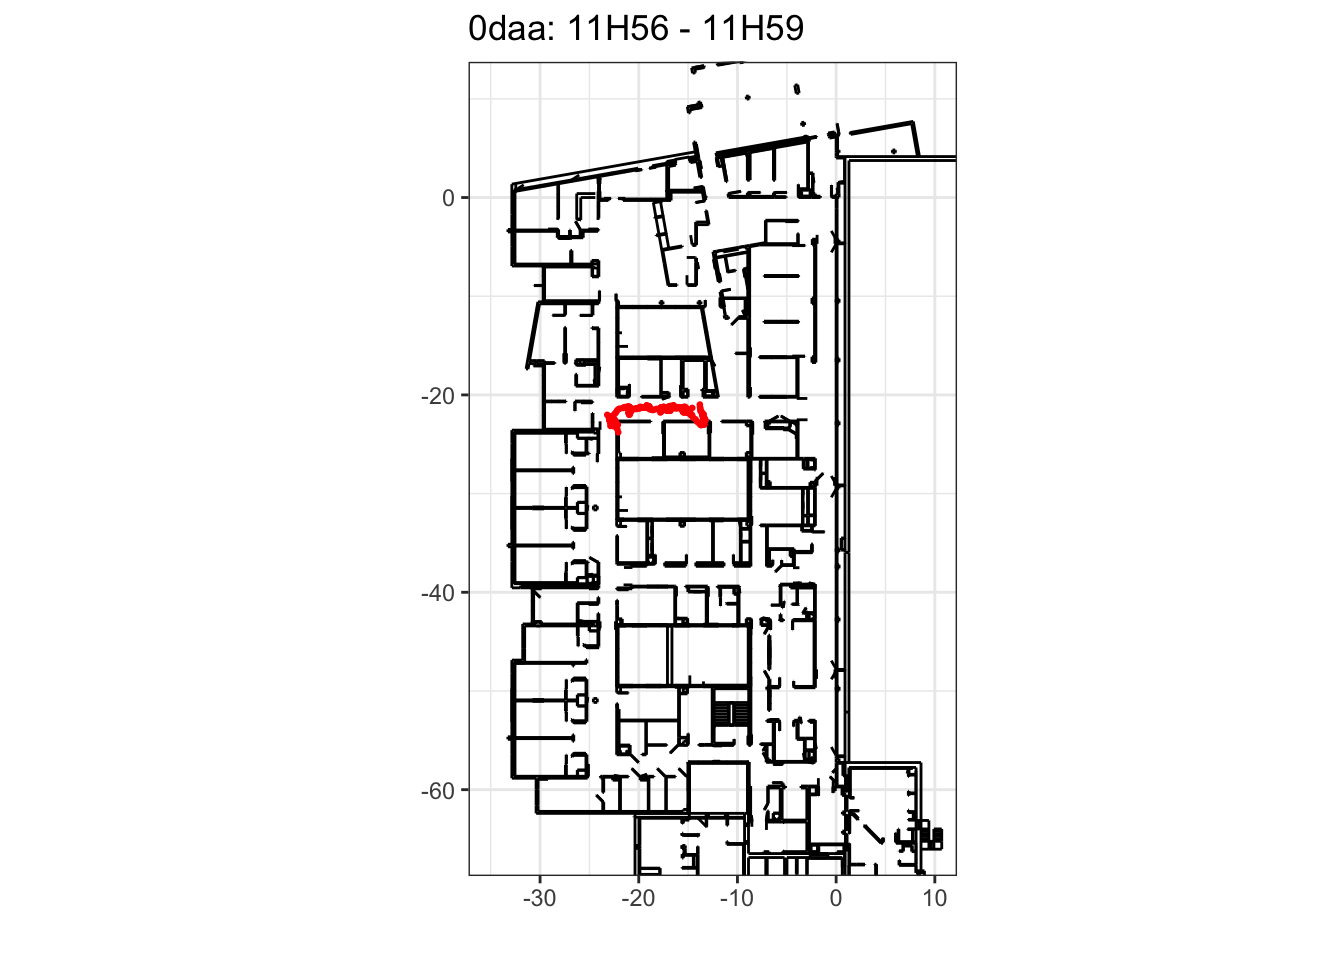
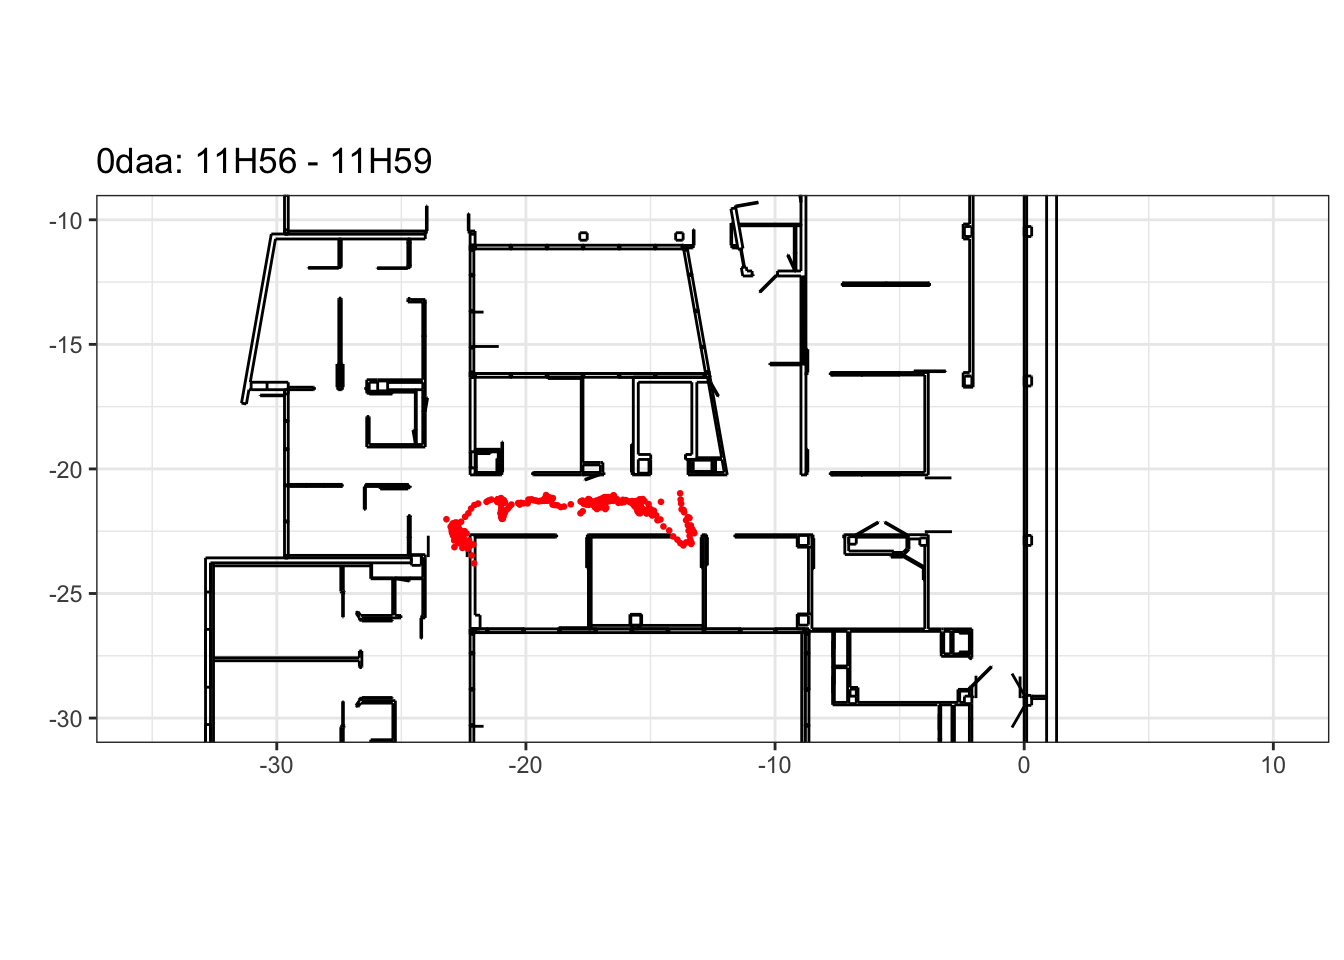
Build site.

diff --git a/docs/2021-10-19-Test.html b/docs/2021-10-19-Test.html
@@ -505,16 +505,16 @@ This reproducible <a href="http://rmarkdown.rstudio.com">R Markdown</a> analysis
 <div class="panel panel-default">
 <div class="panel-heading">
 <p class="panel-title">
-<a data-toggle="collapse" data-parent="#workflowr-checks" href="#strongRepositoryversionstrongahrefhttpsgithubcomcfcforeverTesttreef10a0ae8b2266ddf6d861946bad41cdeb9d8a4cbtargetblankf10a0aea"> <span class="glyphicon glyphicon-ok text-success" aria-hidden="true"></span> <strong>Repository version:</strong> <a href="https://github.com/cfcforever/Test/tree/f10a0ae8b2266ddf6d861946bad41cdeb9d8a4cb" target="_blank">f10a0ae</a> </a>
+<a data-toggle="collapse" data-parent="#workflowr-checks" href="#strongRepositoryversionstrongahrefhttpsgithubcomcfcforeverTesttree7b55dbd38c1057ebb04fb6749c71a9a1b5854e69targetblank7b55dbda"> <span class="glyphicon glyphicon-ok text-success" aria-hidden="true"></span> <strong>Repository version:</strong> <a href="https://github.com/cfcforever/Test/tree/7b55dbd38c1057ebb04fb6749c71a9a1b5854e69" target="_blank">7b55dbd</a> </a>
 </p>
 </div>
[2 lines of base64/hex data omitted]
 <div class="panel-body">
 <p>
 Great! You are using Git for version control. Tracking code development and connecting the code version to the results is critical for reproducibility.
 </p>
 <p>
-The results in this page were generated with repository version <a href="https://github.com/cfcforever/Test/tree/f10a0ae8b2266ddf6d861946bad41cdeb9d8a4cb" target="_blank">f10a0ae</a>. See the <em>Past versions</em> tab to see a history of the changes made to the R Markdown and HTML files.
+The results in this page were generated with repository version <a href="https://github.com/cfcforever/Test/tree/7b55dbd38c1057ebb04fb6749c71a9a1b5854e69" target="_blank">7b55dbd</a>. See the <em>Past versions</em> tab to see a history of the changes made to the R Markdown and HTML files.
 </p>
 <p>
 Note that you need to be careful to ensure that all relevant files for the analysis have been committed to Git prior to generating the results (you can use <code>wflow_publish</code> or <code>wflow_git_commit</code>). workflowr only checks the R Markdown file, but you know if there are other scripts or data files that it depends on. Below is the status of the Git repository when the results were generated:
@@ -572,6 +572,40 @@ Message
 </tr>
 </thead>
 <tbody>
+<tr>
+<td>
+Rmd
+</td>
+<td>
+<a href="https://github.com/cfcforever/Test/blob/7b55dbd38c1057ebb04fb6749c71a9a1b5854e69/analysis/2021-10-19-Test.Rmd" target="_blank">7b55dbd</a>
+</td>
+<td>
+cfcforever
+</td>
+<td>
+2021-10-19
+</td>
+<td>
+add new analysis
+</td>
+</tr>
+<tr>
+<td>
+html
+</td>
+<td>
+<a href="https://rawcdn.githack.com/cfcforever/Test/d11081d16afa5dfb4ca11dac2989aa0fd1faf5de/docs/2021-10-19-Test.html" target="_blank">d11081d</a>
+</td>
+<td>
+cfcforever
+</td>
+<td>
+2021-10-19
+</td>
+<td>
+Build site.
+</td>
+</tr>
 <tr>
 <td>
 Rmd
@@ -814,7 +848,7 @@ tag = &quot;0daa&quot;</code></pre>
 
 q &lt;- p + 
   geom_point(data = dat, aes(x=x-15,y=y-30), col = &quot;red&quot;, size=0.5) +
-  coord_fixed(ratio = 1, xlim = c(-35,10), ylim = c(-65,10)) + 
+  coord_fixed(ratio = 1, xlim = c(-35,10), ylim = c(-50,-30)) + 
   labs(x=&quot;&quot;, y=&quot;&quot;, title = &quot;0daa: 11H28 - 11H30&quot;)
 print(q)</code></pre>
 <p><img src="figure/2021-10-19-Test.Rmd/unnamed-chunk-3-1.png" width="672" style="display: block; margin: auto;" /></p>
@@ -840,6 +874,17 @@ Date
 </tr>
 </thead>
 <tbody>
+<tr>
+<td>
+<a href="https://github.com/cfcforever/Test/blob/d11081d16afa5dfb4ca11dac2989aa0fd1faf5de/docs/figure/2021-10-19-Test.Rmd/unnamed-chunk-3-1.png" target="_blank">d11081d</a>
+</td>
+<td>
+cfcforever
+</td>
+<td>
+2021-10-19
+</td>
+</tr>
 <tr>
 <td>
 <a href="https://github.com/cfcforever/Test/blob/d3ffea63af5dab17bf1680bb8a38444bc7e74cba/docs/figure/2021-10-19-Test.Rmd/unnamed-chunk-3-1.png" target="_blank">d3ffea6</a>
@@ -885,7 +930,7 @@ cfcforever
 
 q &lt;- p + 
   geom_point(data = dat, aes(x=x-15,y=y-30), col = &quot;red&quot;, size=0.5) +
-  coord_fixed(ratio = 1, xlim = c(-35,10), ylim = c(-65,10)) + 
+  coord_fixed(ratio = 1, xlim = c(-35,10), ylim = c(-50,-30)) + 
   labs(x=&quot;&quot;, y=&quot;&quot;, title = &quot;0daa: 11H35 - 11H37&quot;)
 print(q)</code></pre>
 <p><img src="figure/2021-10-19-Test.Rmd/unnamed-chunk-4-1.png" width="672" style="display: block; margin: auto;" /></p>
@@ -911,6 +956,17 @@ Date
 </tr>
 </thead>
 <tbody>
+<tr>
+<td>
+<a href="https://github.com/cfcforever/Test/blob/d11081d16afa5dfb4ca11dac2989aa0fd1faf5de/docs/figure/2021-10-19-Test.Rmd/unnamed-chunk-4-1.png" target="_blank">d11081d</a>
+</td>
+<td>
+cfcforever
+</td>
+<td>
+2021-10-19
+</td>
+</tr>
 <tr>
 <td>
 <a href="https://github.com/cfcforever/Test/blob/d3ffea63af5dab17bf1680bb8a38444bc7e74cba/docs/figure/2021-10-19-Test.Rmd/unnamed-chunk-4-1.png" target="_blank">d3ffea6</a>
@@ -956,7 +1012,7 @@ cfcforever
 
 q &lt;- p + 
   geom_point(data = dat, aes(x=x-15,y=y-30), col = &quot;red&quot;, size=0.5) +
-  coord_fixed(ratio = 1, xlim = c(-35,10), ylim = c(-65,10)) + 
+  coord_fixed(ratio = 1, xlim = c(-35,10), ylim = c(-50,-30)) + 
   labs(x=&quot;&quot;, y=&quot;&quot;, title = &quot;0daa: 11H38 - 11H40&quot;)
 print(q)</code></pre>
 <p><img src="figure/2021-10-19-Test.Rmd/unnamed-chunk-5-1.png" width="672" style="display: block; margin: auto;" /></p>
@@ -982,6 +1038,17 @@ Date
 </tr>
 </thead>
 <tbody>
+<tr>
+<td>
+<a href="https://github.com/cfcforever/Test/blob/d11081d16afa5dfb4ca11dac2989aa0fd1faf5de/docs/figure/2021-10-19-Test.Rmd/unnamed-chunk-5-1.png" target="_blank">d11081d</a>
+</td>
+<td>
+cfcforever
+</td>
+<td>
+2021-10-19
+</td>
+</tr>
 <tr>
 <td>
 <a href="https://github.com/cfcforever/Test/blob/d3ffea63af5dab17bf1680bb8a38444bc7e74cba/docs/figure/2021-10-19-Test.Rmd/unnamed-chunk-5-1.png" target="_blank">d3ffea6</a>
@@ -1030,7 +1097,7 @@ cfcforever
 
 q &lt;- p + 
   geom_point(data = dat, aes(x=x-15,y=y-30), col = &quot;red&quot;, size=0.5) +
-  coord_fixed(ratio = 1, xlim = c(-35,10), ylim = c(-65,10)) + 
+  coord_fixed(ratio = 1, xlim = c(-35,10), ylim = c(-30,-10)) + 
   labs(x=&quot;&quot;, y=&quot;&quot;, title = &quot;0daa: 11H56 - 11H59&quot;)
 print(q)</code></pre>
 <p><img src="figure/2021-10-19-Test.Rmd/unnamed-chunk-6-1.png" width="672" style="display: block; margin: auto;" /></p>
@@ -1056,6 +1123,17 @@ Date
 </tr>
 </thead>
 <tbody>
+<tr>
+<td>
+<a href="https://github.com/cfcforever/Test/blob/d11081d16afa5dfb4ca11dac2989aa0fd1faf5de/docs/figure/2021-10-19-Test.Rmd/unnamed-chunk-6-1.png" target="_blank">d11081d</a>
+</td>
+<td>
+cfcforever
+</td>
+<td>
+2021-10-19
+</td>
+</tr>
 <tr>
 <td>
 <a href="https://github.com/cfcforever/Test/blob/d3ffea63af5dab17bf1680bb8a38444bc7e74cba/docs/figure/2021-10-19-Test.Rmd/unnamed-chunk-6-1.png" target="_blank">d3ffea6</a>
@@ -1101,7 +1179,7 @@ cfcforever
 
 q &lt;- p + 
   geom_point(data = dat, aes(x=x-15,y=y-30), col = &quot;red&quot;, size=0.5) +
-  coord_fixed(ratio = 1, xlim = c(-35,10), ylim = c(-65,10)) + 
+  coord_fixed(ratio = 1, xlim = c(-35,10), ylim = c(-30,-10)) + 
   labs(x=&quot;&quot;, y=&quot;&quot;, title = &quot;0daa: 12H00 - 12H03&quot;)
 print(q)</code></pre>
 <p><img src="figure/2021-10-19-Test.Rmd/unnamed-chunk-7-1.png" width="672" style="display: block; margin: auto;" /></p>
@@ -1127,6 +1205,17 @@ Date
 </tr>
 </thead>
 <tbody>
+<tr>
+<td>
+<a href="https://github.com/cfcforever/Test/blob/d11081d16afa5dfb4ca11dac2989aa0fd1faf5de/docs/figure/2021-10-19-Test.Rmd/unnamed-chunk-7-1.png" target="_blank">d11081d</a>
+</td>
+<td>
+cfcforever
+</td>
+<td>
+2021-10-19
+</td>
+</tr>
 <tr>
 <td>
 <a href="https://github.com/cfcforever/Test/blob/d3ffea63af5dab17bf1680bb8a38444bc7e74cba/docs/figure/2021-10-19-Test.Rmd/unnamed-chunk-7-1.png" target="_blank">d3ffea6</a>
@@ -1172,7 +1261,7 @@ cfcforever
 
 q &lt;- p + 
   geom_point(data = dat, aes(x=x-15,y=y-30), col = &quot;red&quot;, size=0.5) +
-  coord_fixed(ratio = 1, xlim = c(-35,10), ylim = c(-65,10)) + 
+  coord_fixed(ratio = 1, xlim = c(-35,10), ylim = c(-30,-10)) + 
   labs(x=&quot;&quot;, y=&quot;&quot;, title = &quot;0daa: 12H04 - 12H07&quot;)
 print(q)</code></pre>
 <p><img src="figure/2021-10-19-Test.Rmd/unnamed-chunk-8-1.png" width="672" style="display: block; margin: auto;" /></p>
@@ -1198,6 +1287,17 @@ Date
 </tr>
 </thead>
 <tbody>
+<tr>
+<td>
+<a href="https://github.com/cfcforever/Test/blob/d11081d16afa5dfb4ca11dac2989aa0fd1faf5de/docs/figure/2021-10-19-Test.Rmd/unnamed-chunk-8-1.png" target="_blank">d11081d</a>
+</td>
+<td>
+cfcforever
+</td>
+<td>
+2021-10-19
+</td>
+</tr>
 <tr>
 <td>
 <a href="https://github.com/cfcforever/Test/blob/e338b62b1ed1503aac26d8b98db868e37d9616bd/docs/figure/2021-10-19-Test.Rmd/unnamed-chunk-8-1.png" target="_blank">e338b62</a>
